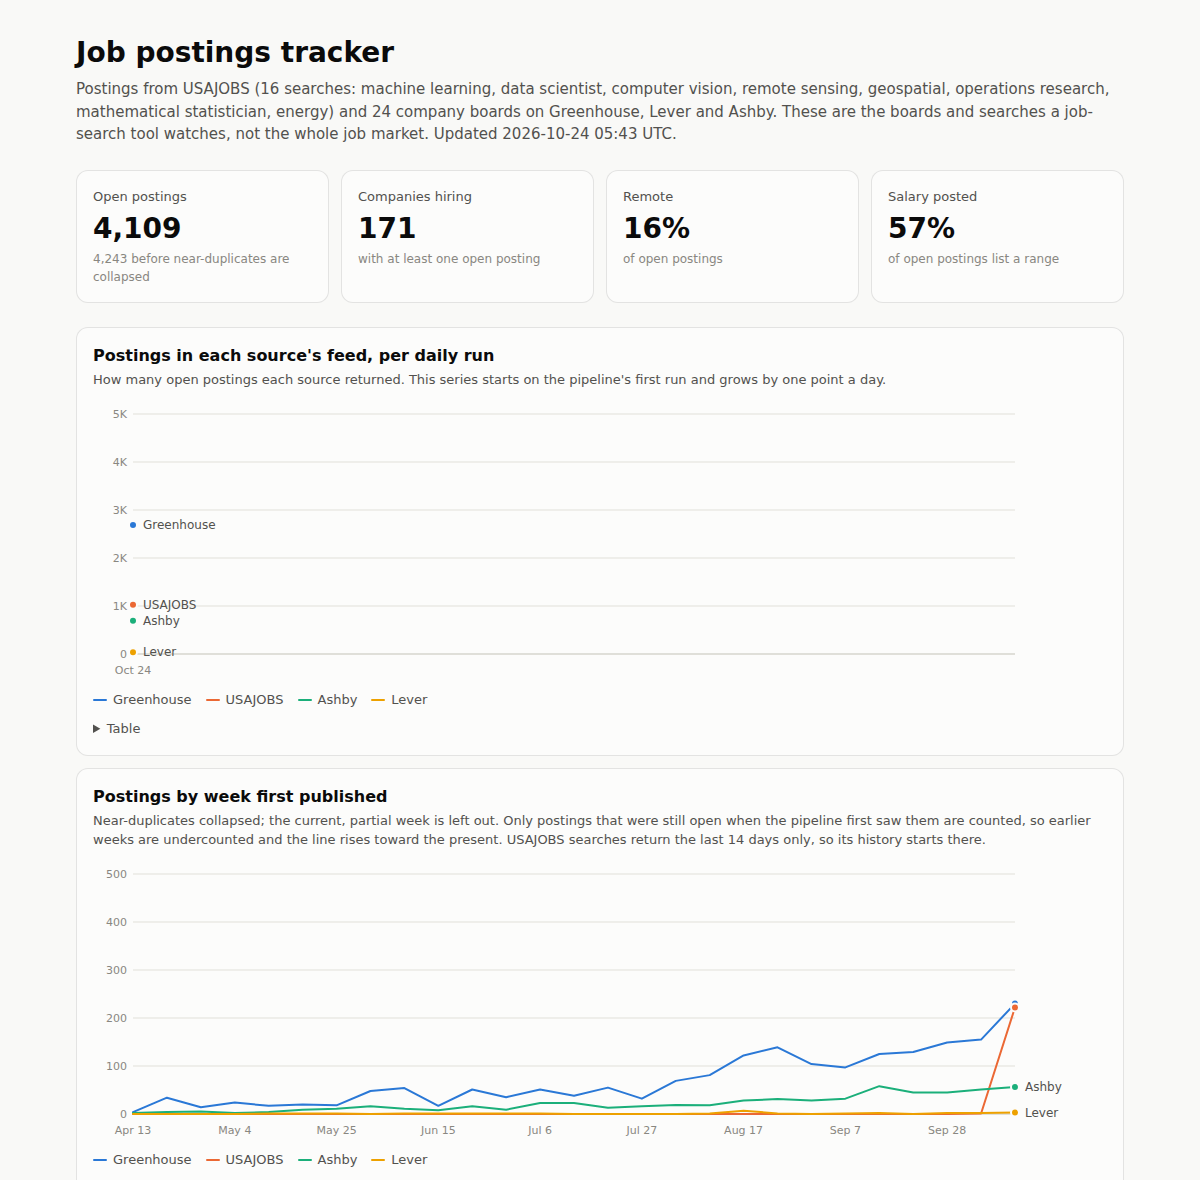
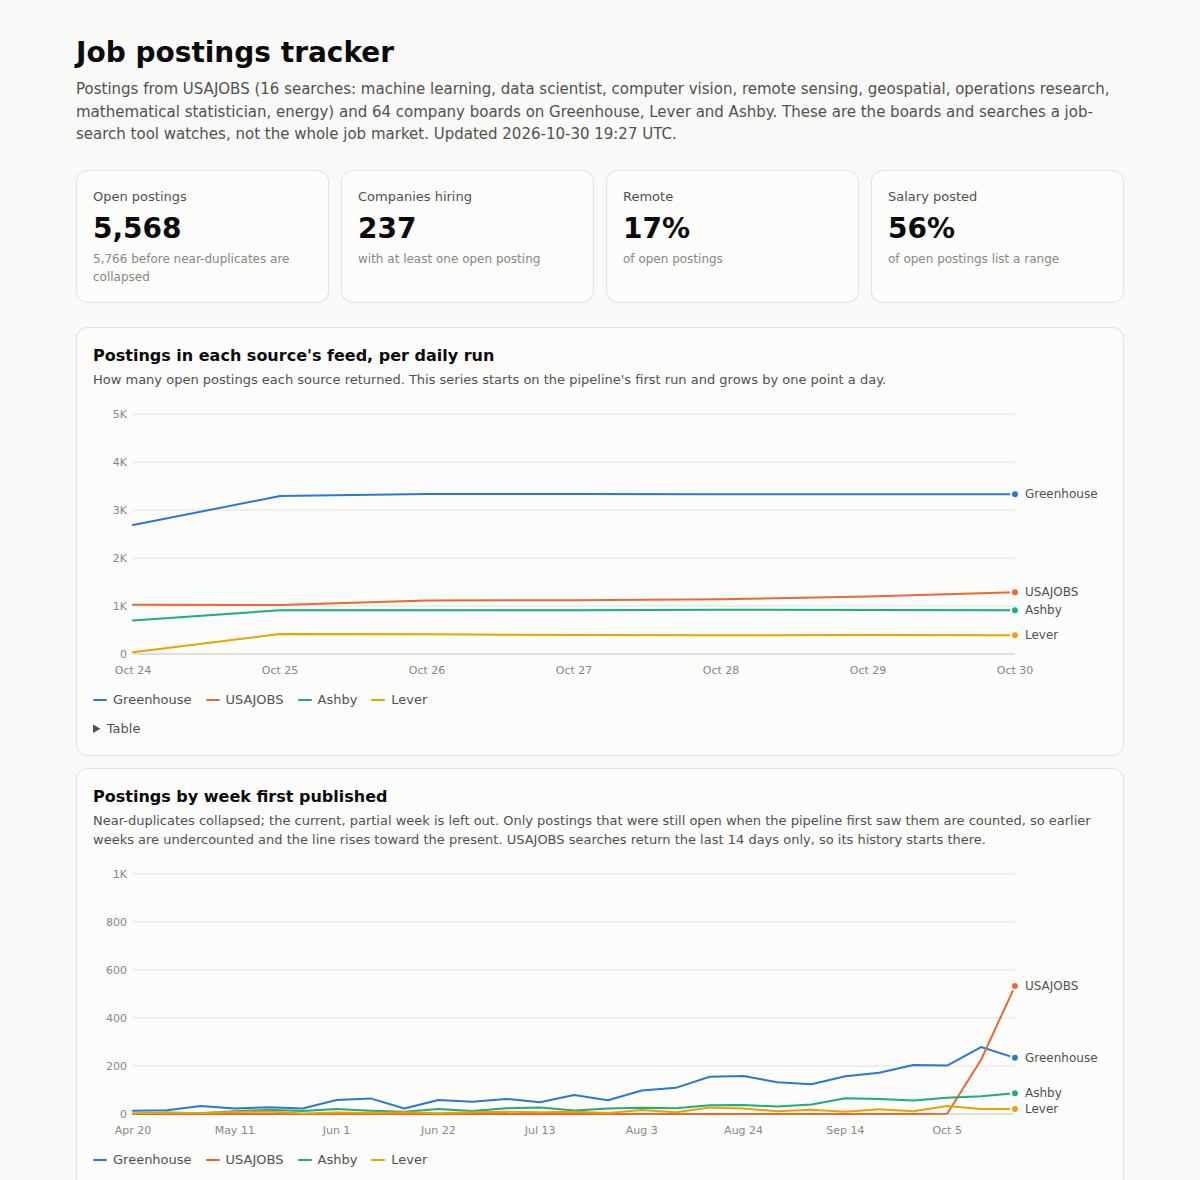
Redraw the social preview from the live dashboard; refresh dashboard.png
The old preview was a text diagram too small to read at profile-README
size and still said 24 company boards. It now matches the other project
cards: title, subtitle, and a screenshot of the live dashboard's summary
tiles and bar charts. dashboard.png is re-shot from the live site, where
the daily-feed chart now covers a week instead of one point.

diff --git a/docs/social-preview.html b/docs/social-preview.html
@@ -1,40 +1,21 @@
 <!doctype html>
 <html><head><meta charset="utf-8"><title>jobradar preview</title>
 <!-- Source for social-preview.png (1280x640). Render with any headless Chromium:
-     chrome --headless --window-size=1280,640 --screenshot=docs/social-preview.png docs/social-preview.html -->
+     chrome --headless --window-size=1280,640 --screenshot=docs/social-preview.png docs/social-preview.html
+     social-preview-dashboard.png is a 2x screenshot of the live dashboard with only the summary tiles
+     and the first two bar-chart cards showing (header, line charts and later cards hidden with CSS). -->
 <style>
 * { box-sizing: border-box; margin: 0; }
-body { width: 1280px; height: 640px; background: #f9f9f7; color: #0b0b0b;
-       font: 18px/1.4 system-ui, -apple-system, "Segoe UI", sans-serif; padding: 56px 64px; }
-h1 { font-size: 64px; font-weight: 700; letter-spacing: -1px; }
-.sub { font-size: 26px; color: #52514e; margin-top: 6px; }
-.rule { height: 1px; background: #e1e0d9; margin: 30px 0 34px; }
-.lane { display: flex; align-items: center; gap: 10px; margin-bottom: 26px; }
-.tag { flex: none; width: 124px; font-size: 15px; color: #52514e; text-transform: uppercase; letter-spacing: 1px; }
-.box { background: #fcfcfb; border: 1px solid rgba(11,11,11,0.10); border-radius: 10px; padding: 12px 14px;
-       font-size: 18px; white-space: nowrap; }
-.box small { display: block; font-size: 13px; color: #898781; }
-.arrow { color: #c3c2b7; font-size: 22px; }
-.k1 { border-left: 4px solid #2a78d6; } .k2 { border-left: 4px solid #eb6834; }
-.foot { position: absolute; bottom: 44px; left: 64px; font-size: 16px; color: #898781; }
+body { width: 1280px; height: 640px; overflow: hidden; background: #fff; color: #181c22;
+       font: 18px/1.3 system-ui, -apple-system, "Segoe UI", sans-serif; padding: 40px 48px 0; }
+h1 { font-size: 64px; font-weight: 700; letter-spacing: -0.5px; line-height: 1.1; }
+.sub { font-size: 28px; color: #58606c; margin-top: 8px; white-space: nowrap; }
+.rule { height: 2px; background: #dcdee2; margin: 18px 0 24px; }
+img { display: block; width: 1184px; }
 </style></head>
 <body>
   <h1>jobradar</h1>
-  <p class="sub">Job postings from USAJOBS and 24 company boards: ranked for one person, and kept as a public warehouse.</p>
+  <p class="sub">Ranks daily job postings with Claude and tracks the market in a dbt warehouse.</p>
   <div class="rule"></div>
-  <div class="lane">
-    <div class="tag">Ranking</div>
-    <div class="box k1">Hard filters<small>title, location, years, grade</small></div><span class="arrow">&rarr;</span>
-    <div class="box k1">TF-IDF recall<small>top 40 per run</small></div><span class="arrow">&rarr;</span>
-    <div class="box k1">Claude rerank<small>rubric, one call per posting</small></div><span class="arrow">&rarr;</span>
-    <div class="box k1">Evaluated<small>blind hand labels, bootstrap CIs</small></div>
-  </div>
-  <div class="lane">
-    <div class="tag">Warehouse</div>
-    <div class="box k2">Raw tables<small>DuckDB, idempotent upserts</small></div><span class="arrow">&rarr;</span>
-    <div class="box k2">dbt models<small>staging, marts, snapshot, tests</small></div><span class="arrow">&rarr;</span>
-    <div class="box k2">Quality + dedupe<small>row-count alerts, embeddings</small></div><span class="arrow">&rarr;</span>
-    <div class="box k2">Dashboard<small>daily on GitHub Actions</small></div>
-  </div>
-  <p class="foot">github.com/CameronGordonn/jobradar</p>
+  <img src="social-preview-dashboard.png" alt="">
 </body></html>
